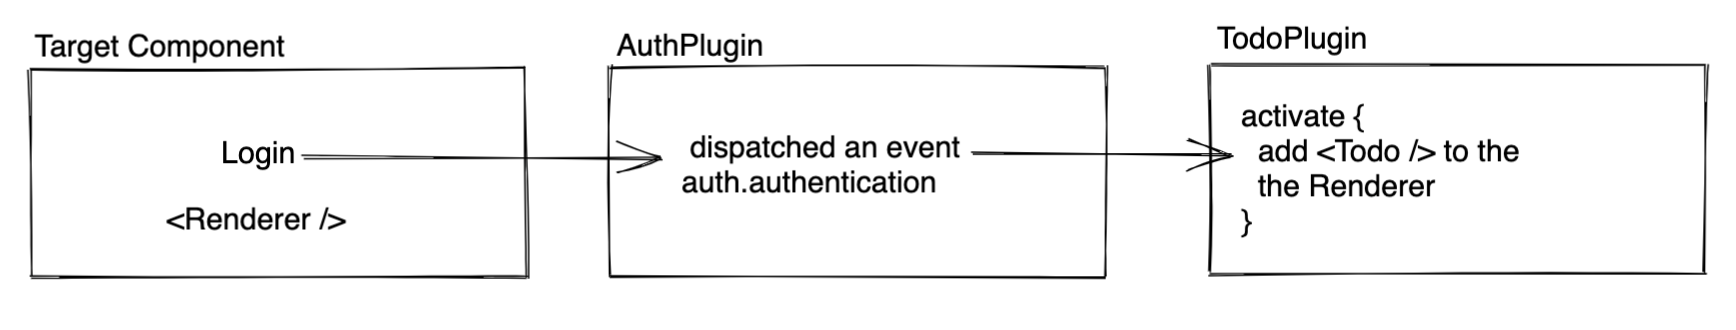
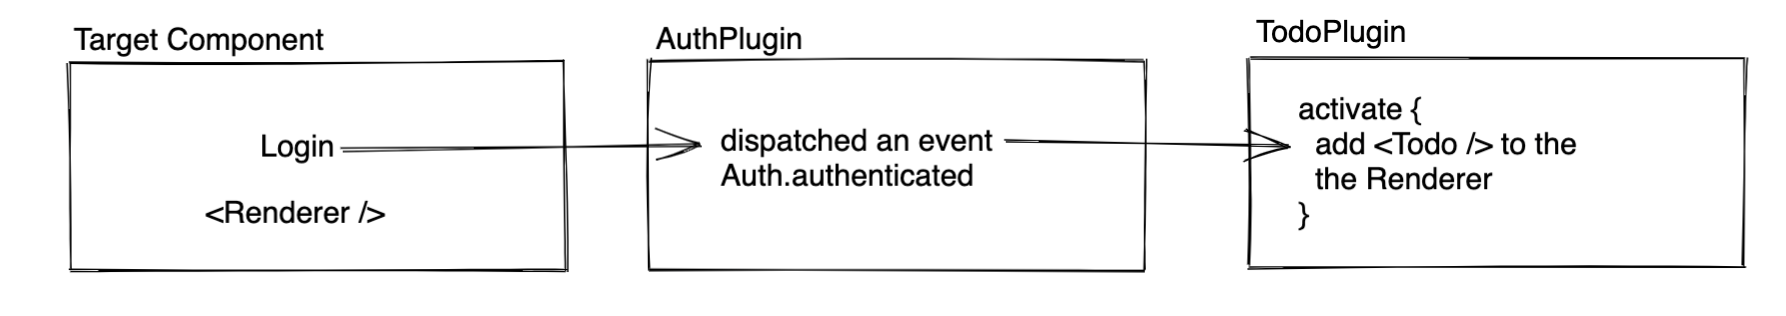
Todo Example Page changed

diff --git a/docs/todo-example.html b/docs/todo-example.html
@@ -60,10 +60,10 @@
               }
             });
         </script></nav></div><div class="container mainContainer docsContainer"><div class="wrapper"><div class="post"><header class="postHeader"><h1 id="__docusaurus" class="postHeaderTitle">Todo App</h1></header><article><div><span><p>In the given example, we are installing a plugin inside another plugin.</p>
-<p>When Login is clicked, we install the TodoPlugin which ultimately renders the Todo component.
+<p>When Login is clicked, an event Auth.authenticated is dispatched from AuthPlugin which is listened to by the TodoPlugin, which ultimately renders the Todo component.
 <br/></p>
 <p><img src="./assets/images/loginTodo.png" alt="login-flow"></p>
-<p>As soon as we click on logout, the TodoPlugin is uninstalled and the Todo stops rendering.
+<p>On clicking the logout button, Auth.loggedOut event is dispatched from the AuthPlugin and listened to by the TodoPlugin, which stops the rendering of the Todo component.
 <br/></p>
 <p><img src="./assets/images/logoutTodo.png" alt="login-flow"></p>
 <p><br/></p>

diff --git a/docs/todo-example/index.html b/docs/todo-example/index.html
@@ -60,10 +60,10 @@
               }
             });
         </script></nav></div><div class="container mainContainer docsContainer"><div class="wrapper"><div class="post"><header class="postHeader"><h1 id="__docusaurus" class="postHeaderTitle">Todo App</h1></header><article><div><span><p>In the given example, we are installing a plugin inside another plugin.</p>
-<p>When Login is clicked, we install the TodoPlugin which ultimately renders the Todo component.
+<p>When Login is clicked, an event Auth.authenticated is dispatched from AuthPlugin which is listened to by the TodoPlugin, which ultimately renders the Todo component.
 <br/></p>
 <p><img src="./assets/images/loginTodo.png" alt="login-flow"></p>
-<p>As soon as we click on logout, the TodoPlugin is uninstalled and the Todo stops rendering.
+<p>On clicking the logout button, Auth.loggedOut event is dispatched from the AuthPlugin and listened to by the TodoPlugin, which stops the rendering of the Todo component.
 <br/></p>
 <p><img src="./assets/images/logoutTodo.png" alt="login-flow"></p>
 <p><br/></p>
